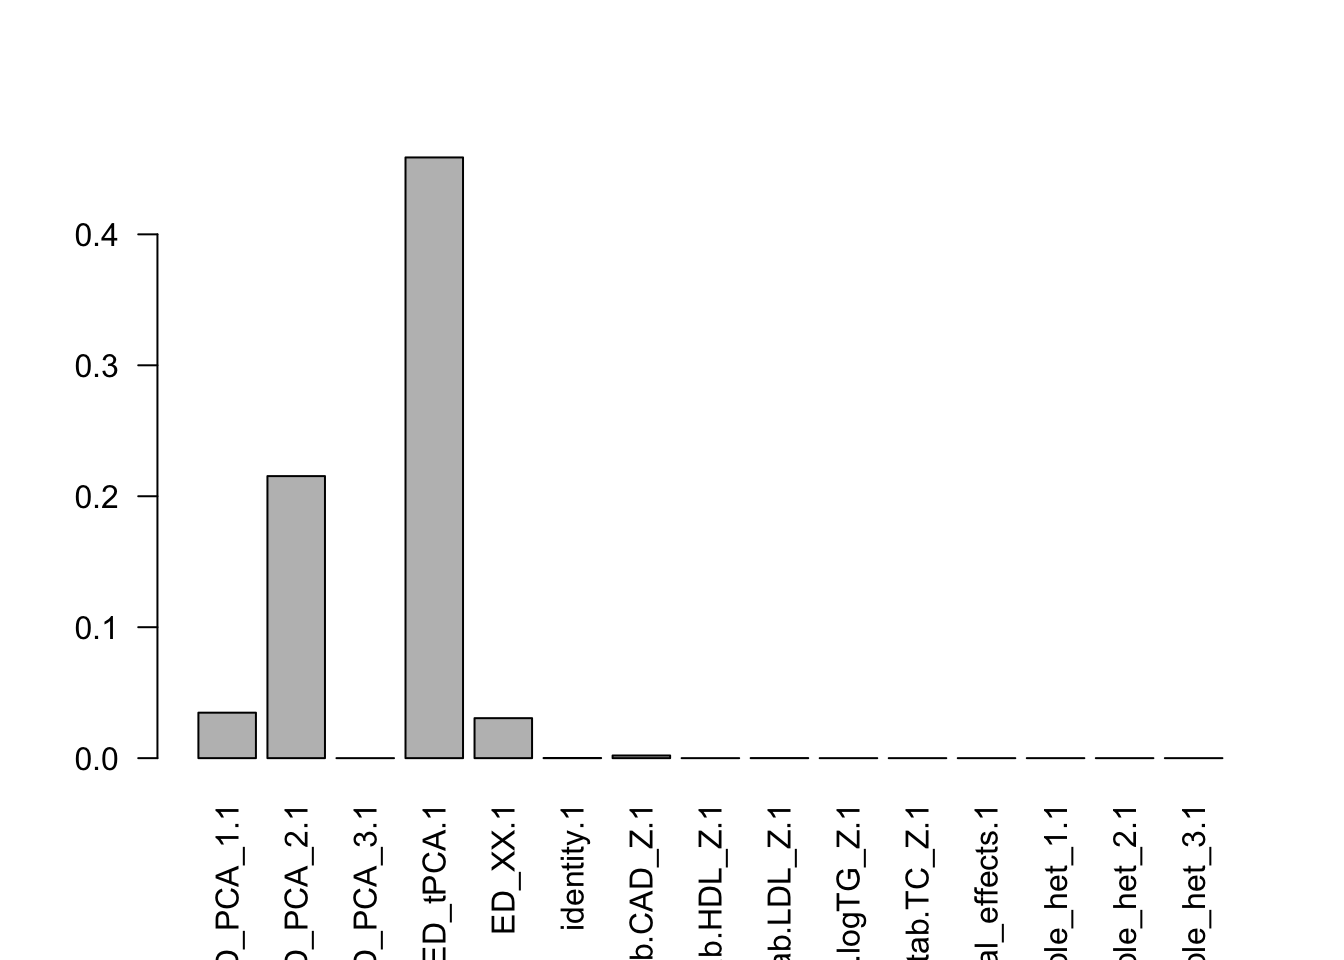
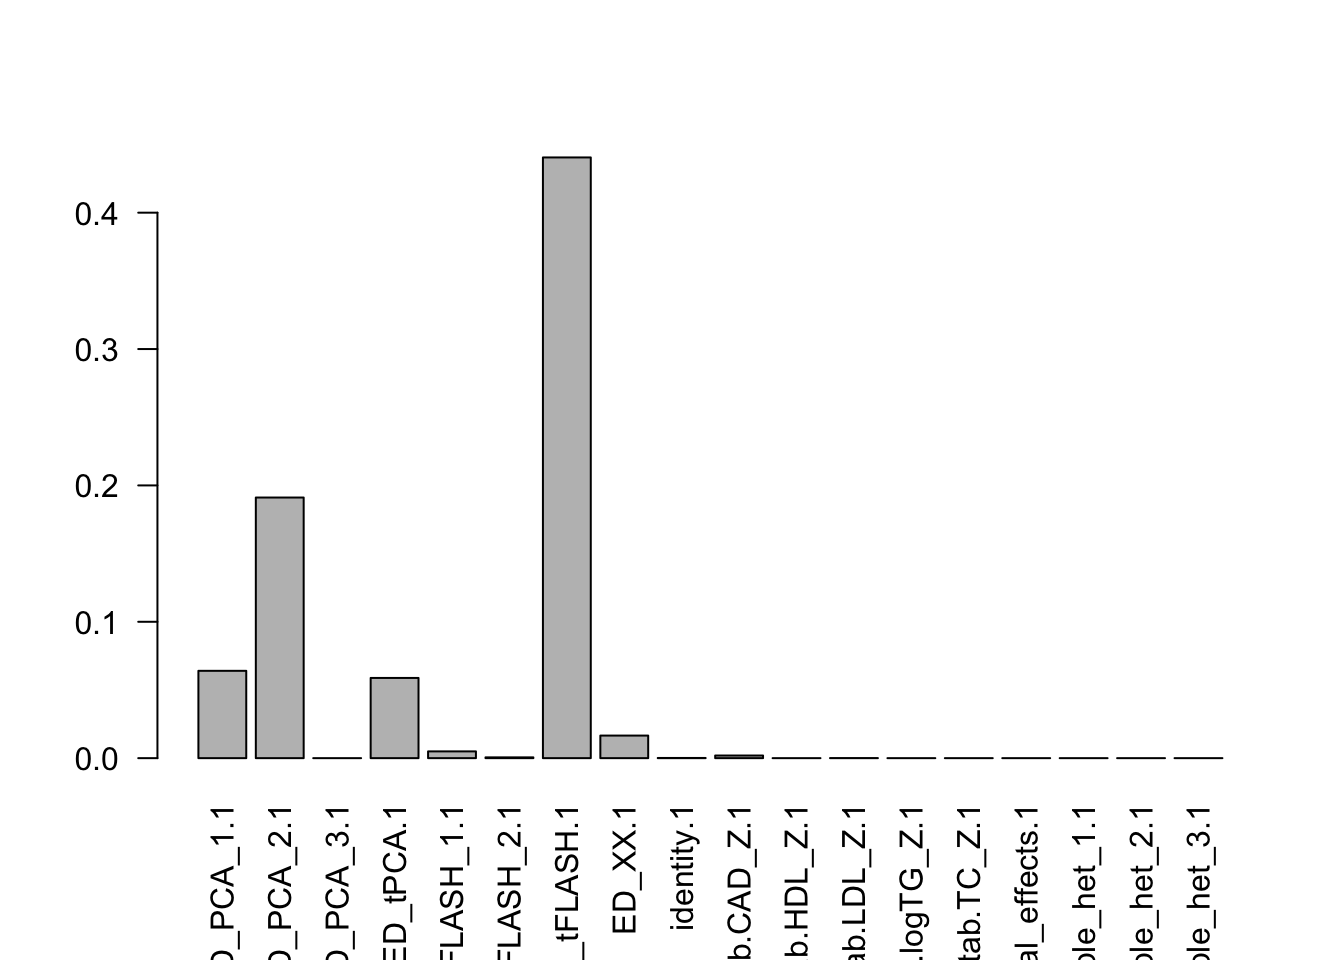
Build site.

diff --git a/docs/cad.html b/docs/cad.html
@@ -445,16 +445,16 @@ This reproducible <a href="http://rmarkdown.rstudio.com">R Markdown</a> analysis
 <div class="panel panel-default">
 <div class="panel-heading">
 <p class="panel-title">
-<a data-toggle="collapse" data-parent="#workflowr-checks" href="#strongRepositoryversionstrongahrefhttpsgithubcomsurbutlipidsmvptree26a6964e0ce0c8579a0b3195a563443d503ef269targetblank26a6964a"> <span class="glyphicon glyphicon-ok text-success" aria-hidden="true"></span> <strong>Repository version:</strong> <a href="https://github.com/surbut/lipids_mvp/tree/26a6964e0ce0c8579a0b3195a563443d503ef269" target="_blank">26a6964</a> </a>
+<a data-toggle="collapse" data-parent="#workflowr-checks" href="#strongRepositoryversionstrongahrefhttpsgithubcomsurbutlipidsmvptree34099aec58a0a4fde8eb26b408ab65cd4943da93targetblank34099aea"> <span class="glyphicon glyphicon-ok text-success" aria-hidden="true"></span> <strong>Repository version:</strong> <a href="https://github.com/surbut/lipids_mvp/tree/34099aec58a0a4fde8eb26b408ab65cd4943da93" target="_blank">34099ae</a> </a>
 </p>
 </div>
[2 lines of base64/hex data omitted]
 <div class="panel-body">
 <p>
 Great! You are using Git for version control. Tracking code development and connecting the code version to the results is critical for reproducibility.
 </p>
 <p>
-The results in this page were generated with repository version <a href="https://github.com/surbut/lipids_mvp/tree/26a6964e0ce0c8579a0b3195a563443d503ef269" target="_blank">26a6964</a>. See the <em>Past versions</em> tab to see a history of the changes made to the R Markdown and HTML files.
+The results in this page were generated with repository version <a href="https://github.com/surbut/lipids_mvp/tree/34099aec58a0a4fde8eb26b408ab65cd4943da93" target="_blank">34099ae</a>. See the <em>Past versions</em> tab to see a history of the changes made to the R Markdown and HTML files.
 </p>
 <p>
 Note that you need to be careful to ensure that all relevant files for the analysis have been committed to Git prior to generating the results (you can use <code>wflow_publish</code> or <code>wflow_git_commit</code>). workflowr only checks the R Markdown file, but you know if there are other scripts or data files that it depends on. Below is the status of the Git repository when the results were generated:
@@ -505,6 +505,40 @@ Message
 </tr>
 </thead>
 <tbody>
+<tr>
+<td>
+Rmd
+</td>
+<td>
+<a href="https://github.com/surbut/lipids_mvp/blob/34099aec58a0a4fde8eb26b408ab65cd4943da93/analysis/cad.Rmd" target="_blank">34099ae</a>
+</td>
+<td>
+Your Name
+</td>
+<td>
+2020-12-04
+</td>
+<td>
+wflow_publish(“analysis/cad.Rmd”)
+</td>
+</tr>
+<tr>
+<td>
+html
+</td>
+<td>
+<a href="https://rawcdn.githack.com/surbut/lipids_mvp/1e1715f647675847c4caf2944ed6f24deb316176/docs/cad.html" target="_blank">1e1715f</a>
+</td>
+<td>
+Your Name
+</td>
+<td>
+2020-12-04
+</td>
+<td>
+Build site.
+</td>
+</tr>
 <tr>
 <td>
 Rmd
@@ -654,7 +688,8 @@ library(&quot;flashr&quot;)
 source(&#39;~/Downloads//flashscript.R&#39;)
 zmash=readRDS(&quot;~/Dropbox/cadproject/zmash_mat.rds&quot;)
 # identify a random subset of 20000 tests
-random.subset = sample(1:nrow(zmash),40000)
+#random.subset = sample(1:nrow(zmash),40000)
+random.subset=readRDS(&quot;~/Dropbox/cadproject/randomsubset.rds&quot;)
 #zmash=as.matrix(znew[,c(3:7)])
 data.temp = mash_set_data(zmash[random.subset,],alpha = 1)
 Vhat = estimate_null_correlation_simple(data.temp)##correlation matrix of the errors
@@ -674,7 +709,7 @@ data.strong = mash_set_data(zmax,alpha = 1,V=Vhat)
 U.pca = cov_pca(data.strong,3)
 U.flash=cov_flash(data.strong, non_canonical = TRUE)
 X.center = apply(data.strong$Bhat, 2, function(x) x - mean(x))
-U.ed = cov_ed(data.strong, c(U.pca, list(&quot;XX&quot; = t(X.center) %*% X.center / nrow(X.center))))
+U.ed = cov_ed(data.strong, c(U.pca,U.flash,list(&quot;XX&quot; = t(X.center) %*% X.center / nrow(X.center))))
 saveRDS(U.ed,&quot;~/Dropbox/cadproject/EDcov.Rds&quot;)
 
 U.c = cov_canonical(data.random)
@@ -691,6 +726,43 @@ pimat=matrix(m$fitted_g$pi[-1],nrow=l,byrow=T)
 colnames(pimat)=names(m$fitted_g$pi)[2:(k+1)]
 barplot(colSums(pimat),las=2)</code></pre>
 <p><img src="figure/cad.Rmd/plotting-1.png" width="672" style="display: block; margin: auto;" /></p>
+<p>
+<button type="button" class="btn btn-default btn-xs btn-workflowr btn-workflowr-fig" data-toggle="collapse" data-target="#fig-plotting-1">
+Past versions of plotting-1.png
+</button>
+</p>
+<div id="fig-plotting-1" class="collapse">
+<div class="table-responsive">
+<table class="table table-condensed table-hover">
+<thead>
+<tr>
+<th>
+Version
+</th>
+<th>
+Author
+</th>
+<th>
+Date
+</th>
+</tr>
+</thead>
+<tbody>
+<tr>
+<td>
+<a href="https://github.com/surbut/lipids_mvp/blob/1e1715f647675847c4caf2944ed6f24deb316176/docs/figure/cad.Rmd/plotting-1.png" target="_blank">1e1715f</a>
+</td>
+<td>
+Your Name
+</td>
+<td>
+2020-12-04
+</td>
+</tr>
+</tbody>
+</table>
+</div>
+</div>
 <pre class="r"><code>library(&quot;lattice&quot;)
 for(i in 2:6){
   z.num=as.matrix(cov2cor(m$fitted_g$Ulist[[i]]))
@@ -699,7 +771,196 @@ clrs = colorRampPalette(rev(c(&quot;#D73027&quot;,&quot;#FC8D59&quot;,&quot;#FEE
 z.num[lower.tri(z.num)] = NA
 print(levelplot(z.num,col.regions = clrs,xlab = &quot;&quot;,ylab = &quot;&quot;,colorkey = TRUE,main=paste0(names(m$fitted_g$Ulist)[[i]])))
 }</code></pre>
-<p><img src="figure/cad.Rmd/plotting-2.png" width="672" style="display: block; margin: auto;" /><img src="figure/cad.Rmd/plotting-3.png" width="672" style="display: block; margin: auto;" /><img src="figure/cad.Rmd/plotting-4.png" width="672" style="display: block; margin: auto;" /><img src="figure/cad.Rmd/plotting-5.png" width="672" style="display: block; margin: auto;" /><img src="figure/cad.Rmd/plotting-6.png" width="672" style="display: block; margin: auto;" /></p>
+<p><img src="figure/cad.Rmd/plotting-2.png" width="672" style="display: block; margin: auto;" /></p>
+<p>
+<button type="button" class="btn btn-default btn-xs btn-workflowr btn-workflowr-fig" data-toggle="collapse" data-target="#fig-plotting-2">
+Past versions of plotting-2.png
+</button>
+</p>
+<div id="fig-plotting-2" class="collapse">
+<div class="table-responsive">
+<table class="table table-condensed table-hover">
+<thead>
+<tr>
+<th>
+Version
+</th>
+<th>
+Author
+</th>
+<th>
+Date
+</th>
+</tr>
+</thead>
+<tbody>
+<tr>
+<td>
+<a href="https://github.com/surbut/lipids_mvp/blob/1e1715f647675847c4caf2944ed6f24deb316176/docs/figure/cad.Rmd/plotting-2.png" target="_blank">1e1715f</a>
+</td>
+<td>
+Your Name
+</td>
+<td>
+2020-12-04
+</td>
+</tr>
+</tbody>
+</table>
+</div>
+</div>
+<p><img src="figure/cad.Rmd/plotting-3.png" width="672" style="display: block; margin: auto;" /></p>
+<p>
+<button type="button" class="btn btn-default btn-xs btn-workflowr btn-workflowr-fig" data-toggle="collapse" data-target="#fig-plotting-3">
+Past versions of plotting-3.png
+</button>
+</p>
+<div id="fig-plotting-3" class="collapse">
+<div class="table-responsive">
+<table class="table table-condensed table-hover">
+<thead>
+<tr>
+<th>
+Version
+</th>
+<th>
+Author
+</th>
+<th>
+Date
+</th>
+</tr>
+</thead>
+<tbody>
+<tr>
+<td>
+<a href="https://github.com/surbut/lipids_mvp/blob/1e1715f647675847c4caf2944ed6f24deb316176/docs/figure/cad.Rmd/plotting-3.png" target="_blank">1e1715f</a>
+</td>
+<td>
+Your Name
+</td>
+<td>
+2020-12-04
+</td>
+</tr>
+</tbody>
+</table>
+</div>
+</div>
+<p><img src="figure/cad.Rmd/plotting-4.png" width="672" style="display: block; margin: auto;" /></p>
+<p>
+<button type="button" class="btn btn-default btn-xs btn-workflowr btn-workflowr-fig" data-toggle="collapse" data-target="#fig-plotting-4">
+Past versions of plotting-4.png
+</button>
+</p>
+<div id="fig-plotting-4" class="collapse">
+<div class="table-responsive">
+<table class="table table-condensed table-hover">
+<thead>
+<tr>
+<th>
+Version
+</th>
+<th>
+Author
+</th>
+<th>
+Date
+</th>
+</tr>
+</thead>
+<tbody>
+<tr>
+<td>
+<a href="https://github.com/surbut/lipids_mvp/blob/1e1715f647675847c4caf2944ed6f24deb316176/docs/figure/cad.Rmd/plotting-4.png" target="_blank">1e1715f</a>
+</td>
+<td>
+Your Name
+</td>
+<td>
+2020-12-04
+</td>
+</tr>
+</tbody>
+</table>
+</div>
+</div>
+<p><img src="figure/cad.Rmd/plotting-5.png" width="672" style="display: block; margin: auto;" /></p>
+<p>
+<button type="button" class="btn btn-default btn-xs btn-workflowr btn-workflowr-fig" data-toggle="collapse" data-target="#fig-plotting-5">
+Past versions of plotting-5.png
+</button>
+</p>
+<div id="fig-plotting-5" class="collapse">
+<div class="table-responsive">
+<table class="table table-condensed table-hover">
+<thead>
+<tr>
+<th>
+Version
+</th>
+<th>
+Author
+</th>
+<th>
+Date
+</th>
+</tr>
+</thead>
+<tbody>
+<tr>
+<td>
+<a href="https://github.com/surbut/lipids_mvp/blob/1e1715f647675847c4caf2944ed6f24deb316176/docs/figure/cad.Rmd/plotting-5.png" target="_blank">1e1715f</a>
+</td>
+<td>
+Your Name
+</td>
+<td>
+2020-12-04
+</td>
+</tr>
+</tbody>
+</table>
+</div>
+</div>
+<p><img src="figure/cad.Rmd/plotting-6.png" width="672" style="display: block; margin: auto;" /></p>
+<p>
+<button type="button" class="btn btn-default btn-xs btn-workflowr btn-workflowr-fig" data-toggle="collapse" data-target="#fig-plotting-6">
+Past versions of plotting-6.png
+</button>
+</p>
+<div id="fig-plotting-6" class="collapse">
+<div class="table-responsive">
+<table class="table table-condensed table-hover">
+<thead>
+<tr>
+<th>
+Version
+</th>
+<th>
+Author
+</th>
+<th>
+Date
+</th>
+</tr>
+</thead>
+<tbody>
+<tr>
+<td>
+<a href="https://github.com/surbut/lipids_mvp/blob/1e1715f647675847c4caf2944ed6f24deb316176/docs/figure/cad.Rmd/plotting-6.png" target="_blank">1e1715f</a>
+</td>
+<td>
+Your Name
+</td>
+<td>
+2020-12-04
+</td>
+</tr>
+</tbody>
+</table>
+</div>
+</div>
 <p>To compute posterior:</p>
 <pre class="r"><code>for(i in 0:3){
   start=i*2e6+1
@@ -724,7 +985,7 @@ saveRDS(p,file = paste0(&quot;~/Dropbox/cadproject/mash_cad_batch&quot;,i,&quot;
   p=file$PosteriorMean
   lfsr=file$lfsr
 
-for(i in 1:5){
+for(i in 1:4){
   file=readRDS(paste0(&quot;~/Dropbox/cadproject/mash_cad_batch&quot;,i,&quot;.rds&quot;))
   pm=file$PosteriorMean
   lf=file$lfsr
@@ -733,7 +994,10 @@ for(i in 1:5){
 }
   
 saveRDS(p,&quot;~/Dropbox/cadproject/posterio_z.rds&quot;)
-saveRDS(lfsr,&quot;~/Dropbox/cadproject/posterio_lfsr.rds&quot;)</code></pre>
+saveRDS(lfsr,&quot;~/Dropbox/cadproject/posterio_lfsr.rds&quot;)
+
+apply(lfsr,2,function(x){sum(x&lt;0.05)})
+apply(abs(zmash),2,function(x){sum(x&gt;qnorm(1-5e-8/2))})</code></pre>
 <br>
 <p>
 <button type="button" class="btn btn-default btn-workflowr btn-workflowr-sessioninfo" data-toggle="collapse" data-target="#workflowr-sessioninfo" style="display: block;">
